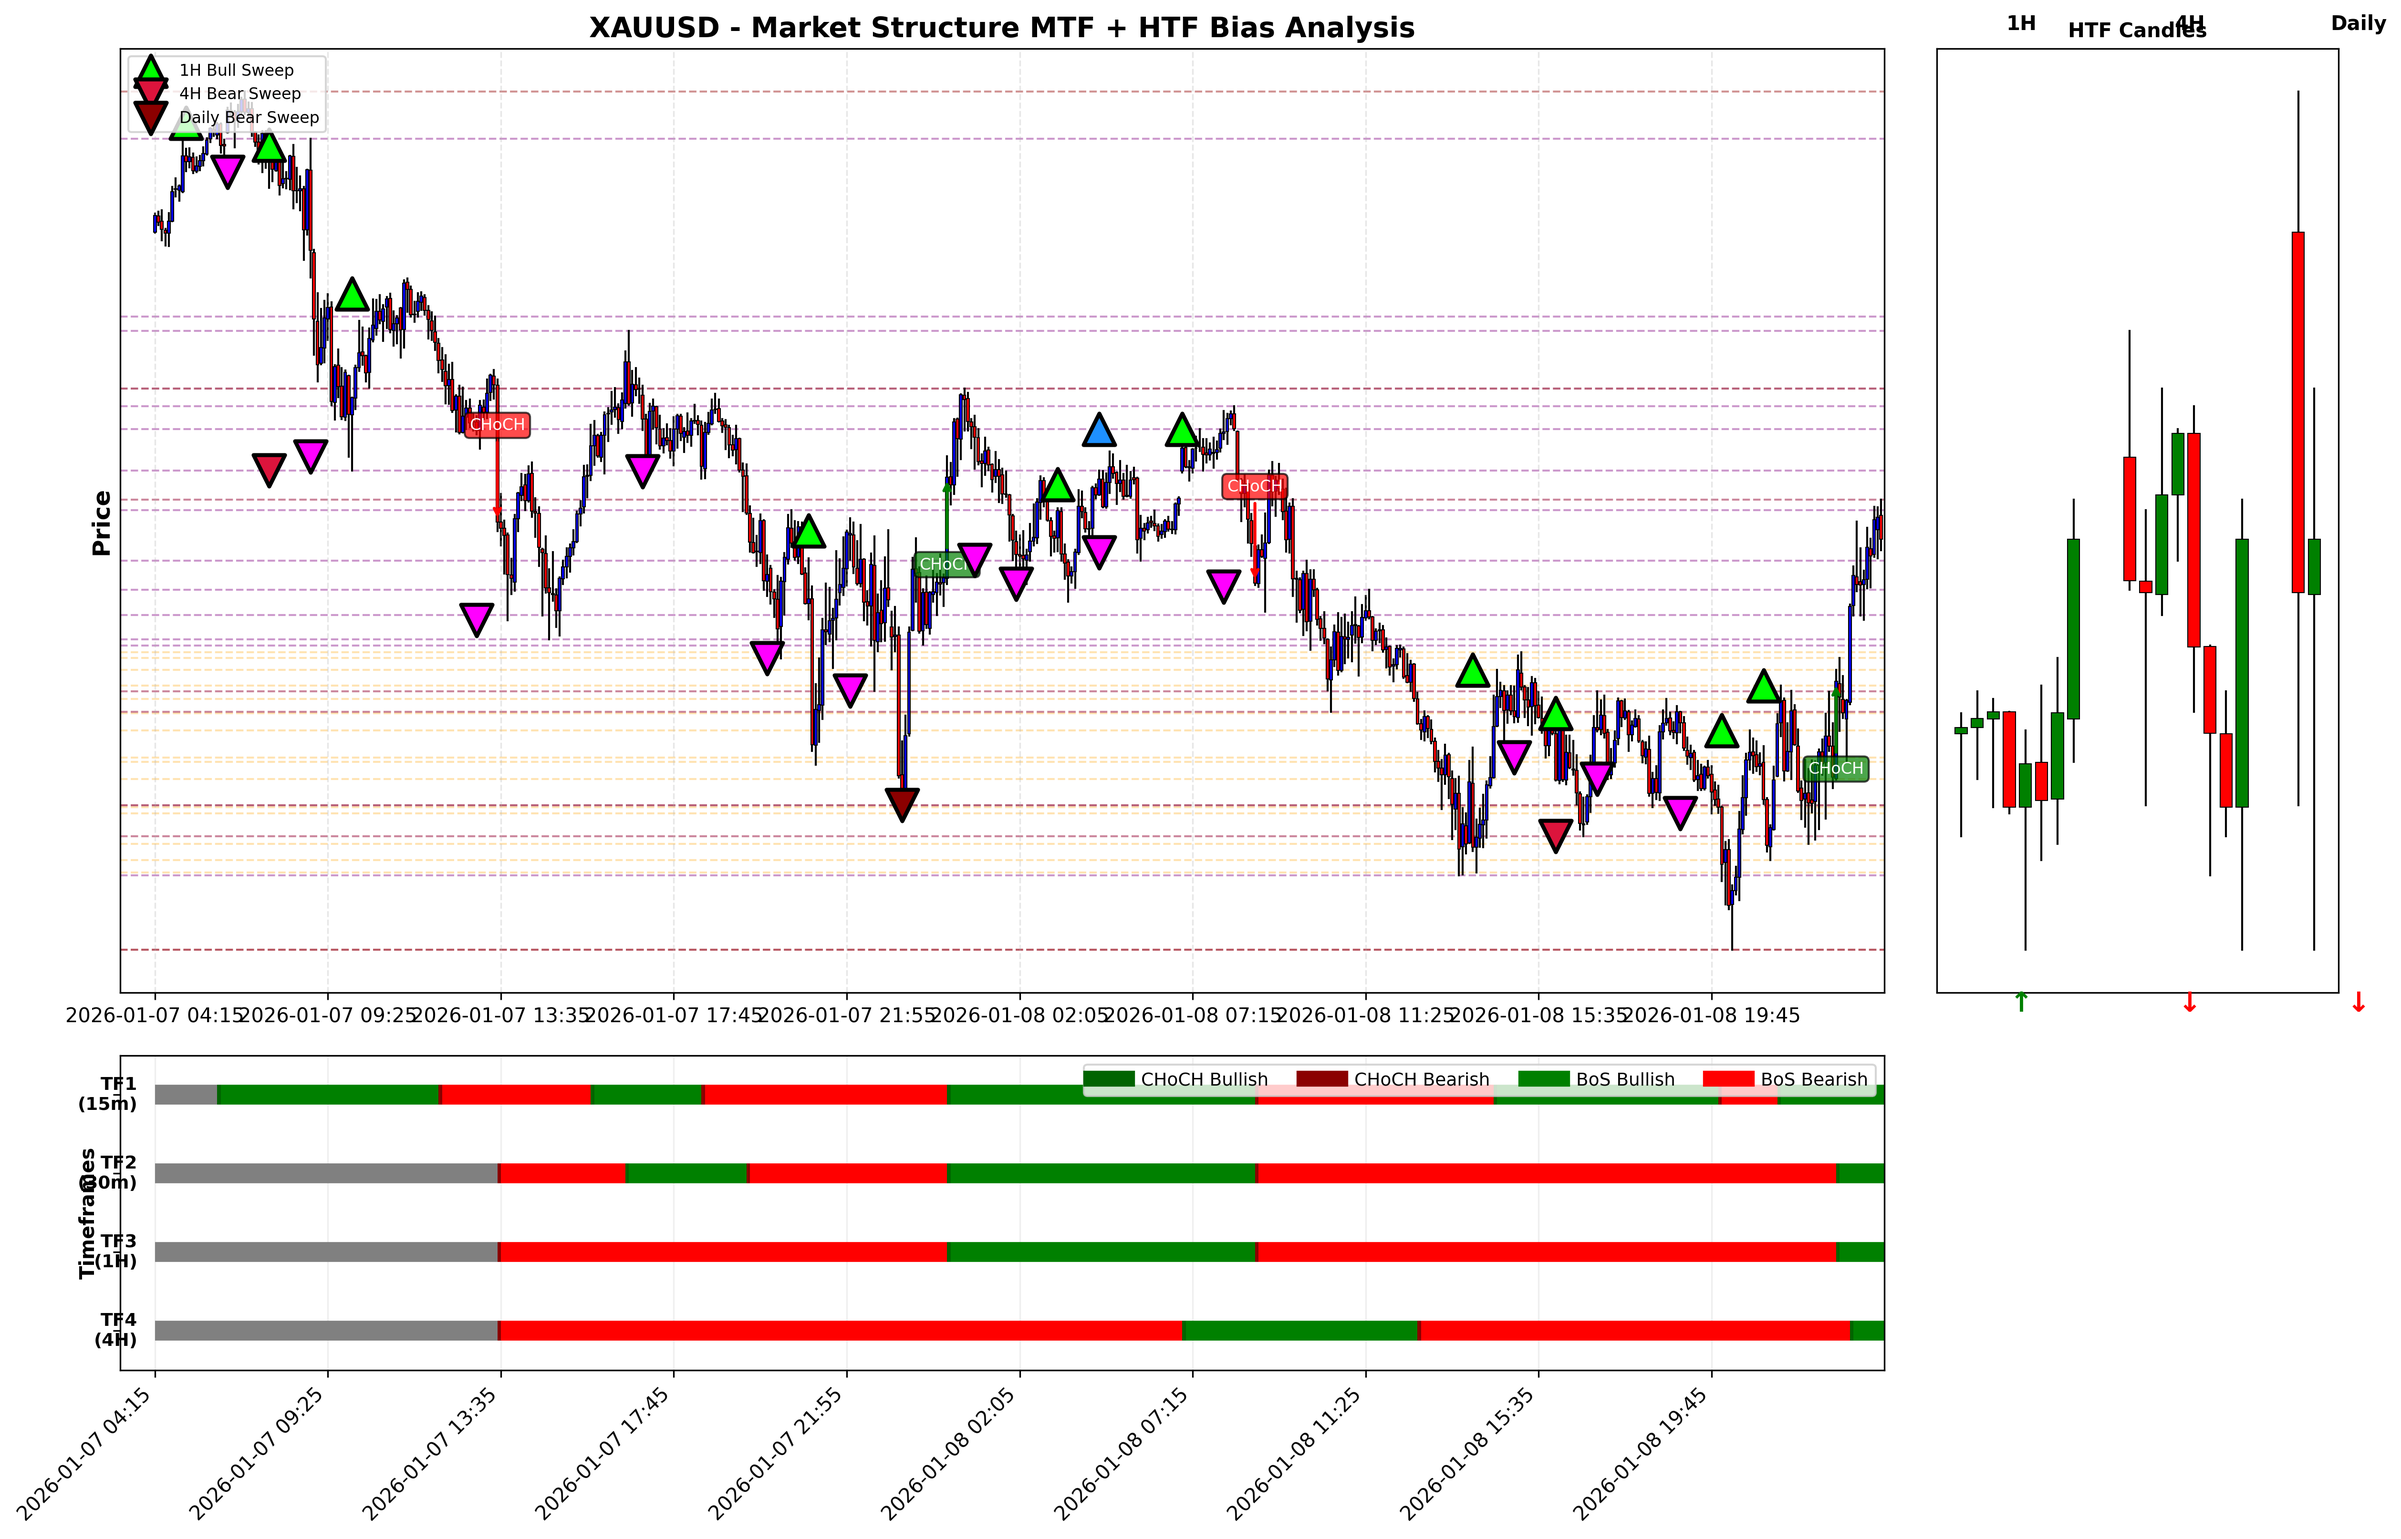
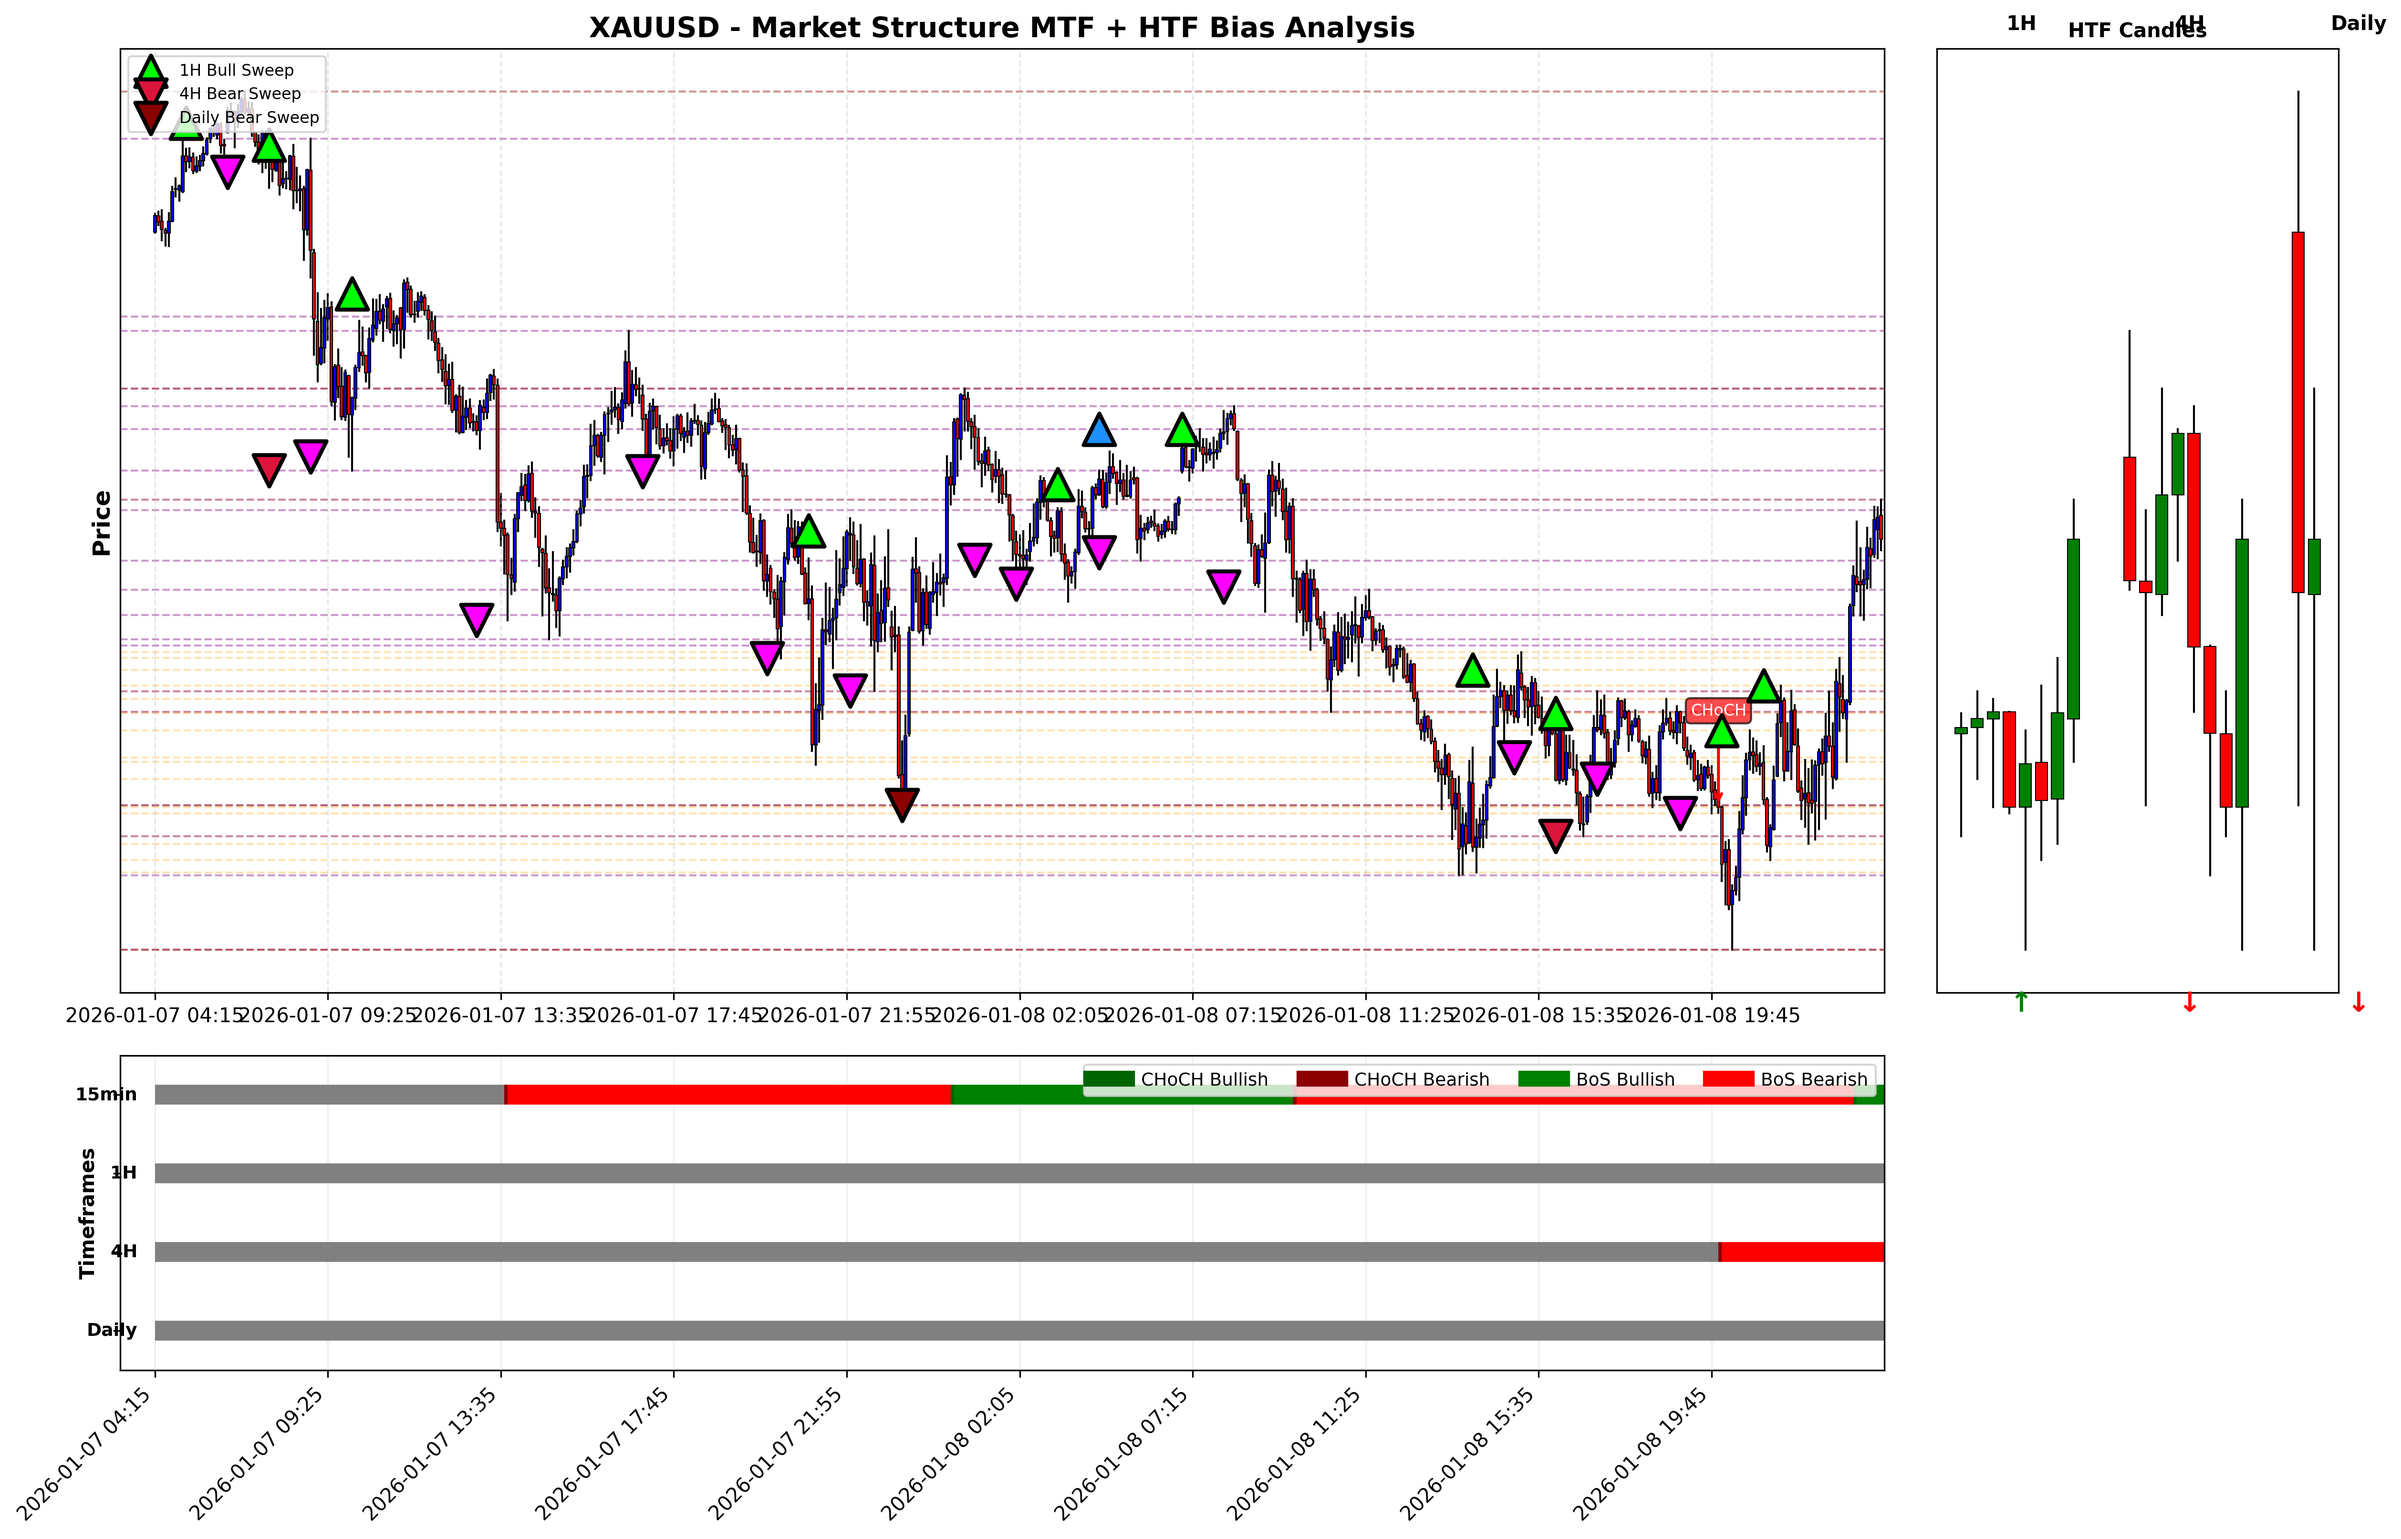
Add HTF Bias indicator and combined Market Structure + HTF chart
Modified Market Structure MTF Trend to show proper timeframes:
- 15min: True 15-minute market structure (resampled from 5min)
- 1H: True 1-hour market structure
- 4H: True 4-hour market structure
- Daily: True daily market structure

Changes:
- Resample 5min data to each higher timeframe
- Calculate market structure on resampled data
- Map results back to LTF indices for plotting
- Update labels: 15min, 1H, 4H, Daily
- Fix pandas deprecation warnings (H -> h)

This provides accurate multi-timeframe market structure analysis
instead of approximations using different pivot strengths.

diff --git a/combined_chart.py b/combined_chart.py
@@ -54,13 +54,155 @@ def plot_combined_chart(csv_file, num_candles=200, pivot_strength=15):
     print(f"Analyzing last {len(df)} candles...")
 
     # ========================================================================
-    # CALCULATE MARKET STRUCTURE
+    # CALCULATE MARKET STRUCTURE FOR MULTIPLE TIMEFRAMES
     # ========================================================================
     print("Calculating market structure for multiple timeframes...")
-    trend_tf1, choch_tf1, bos_tf1, pivots_h_tf1, pivots_l_tf1 = calculate_market_structure(df, pivot_strength=5)
-    trend_tf2, choch_tf2, bos_tf2, pivots_h_tf2, pivots_l_tf2 = calculate_market_structure(df, pivot_strength=10)
-    trend_tf3, choch_tf3, bos_tf3, pivots_h_tf3, pivots_l_tf3 = calculate_market_structure(df, pivot_strength=15)
-    trend_tf4, choch_tf4, bos_tf4, pivots_h_tf4, pivots_l_tf4 = calculate_market_structure(df, pivot_strength=20)
+
+    # TF1: 15min - Resample 5min data to 15min
+    df_15m = df.resample('15min').agg({
+        'open': 'first',
+        'high': 'max',
+        'low': 'min',
+        'close': 'last',
+        'index': 'last'
+    }).dropna()
+    df_15m['index_15m'] = range(len(df_15m))
+    trend_tf1_15m, choch_tf1_15m, bos_tf1_15m, _, _ = calculate_market_structure(df_15m, pivot_strength=5)
+
+    # Map 15min results back to 5min indices
+    trend_tf1 = np.zeros(len(df))
+    for i, row in df_15m.iterrows():
+        ltf_idx = int(row['index'])
+        if ltf_idx < len(df):
+            tf_idx = int(row['index_15m'])
+            if tf_idx < len(trend_tf1_15m):
+                trend_tf1[ltf_idx] = trend_tf1_15m[tf_idx]
+    # Forward fill
+    for i in range(1, len(trend_tf1)):
+        if trend_tf1[i] == 0:
+            trend_tf1[i] = trend_tf1[i-1]
+
+    # Map CHoCH and BoS signals
+    choch_tf1 = []
+    bos_tf1 = []
+    for idx_15m, direction, price in choch_tf1_15m:
+        if idx_15m < len(df_15m):
+            ltf_idx = int(df_15m.iloc[idx_15m]['index'])
+            if ltf_idx < len(df):
+                choch_tf1.append((ltf_idx, direction, price))
+    for idx_15m, direction, price in bos_tf1_15m:
+        if idx_15m < len(df_15m):
+            ltf_idx = int(df_15m.iloc[idx_15m]['index'])
+            if ltf_idx < len(df):
+                bos_tf1.append((ltf_idx, direction, price))
+
+    # TF2: 1H - Resample to 1 hour
+    df_1h = df.resample('1h').agg({
+        'open': 'first',
+        'high': 'max',
+        'low': 'min',
+        'close': 'last',
+        'index': 'last'
+    }).dropna()
+    df_1h['index_1h'] = range(len(df_1h))
+    trend_tf2_1h, choch_tf2_1h, bos_tf2_1h, _, _ = calculate_market_structure(df_1h, pivot_strength=5)
+
+    # Map 1H results back to 5min indices
+    trend_tf2 = np.zeros(len(df))
+    for i, row in df_1h.iterrows():
+        ltf_idx = int(row['index'])
+        if ltf_idx < len(df):
+            tf_idx = int(row['index_1h'])
+            if tf_idx < len(trend_tf2_1h):
+                trend_tf2[ltf_idx] = trend_tf2_1h[tf_idx]
+    for i in range(1, len(trend_tf2)):
+        if trend_tf2[i] == 0:
+            trend_tf2[i] = trend_tf2[i-1]
+
+    choch_tf2 = []
+    bos_tf2 = []
+    for idx_1h, direction, price in choch_tf2_1h:
+        if idx_1h < len(df_1h):
+            ltf_idx = int(df_1h.iloc[idx_1h]['index'])
+            if ltf_idx < len(df):
+                choch_tf2.append((ltf_idx, direction, price))
+    for idx_1h, direction, price in bos_tf2_1h:
+        if idx_1h < len(df_1h):
+            ltf_idx = int(df_1h.iloc[idx_1h]['index'])
+            if ltf_idx < len(df):
+                bos_tf2.append((ltf_idx, direction, price))
+
+    # TF3: 4H - Resample to 4 hours
+    df_4h = df.resample('4h').agg({
+        'open': 'first',
+        'high': 'max',
+        'low': 'min',
+        'close': 'last',
+        'index': 'last'
+    }).dropna()
+    df_4h['index_4h'] = range(len(df_4h))
+    trend_tf3_4h, choch_tf3_4h, bos_tf3_4h, _, _ = calculate_market_structure(df_4h, pivot_strength=3)
+
+    # Map 4H results back to 5min indices
+    trend_tf3 = np.zeros(len(df))
+    for i, row in df_4h.iterrows():
+        ltf_idx = int(row['index'])
+        if ltf_idx < len(df):
+            tf_idx = int(row['index_4h'])
+            if tf_idx < len(trend_tf3_4h):
+                trend_tf3[ltf_idx] = trend_tf3_4h[tf_idx]
+    for i in range(1, len(trend_tf3)):
+        if trend_tf3[i] == 0:
+            trend_tf3[i] = trend_tf3[i-1]
+
+    choch_tf3 = []
+    bos_tf3 = []
+    for idx_4h, direction, price in choch_tf3_4h:
+        if idx_4h < len(df_4h):
+            ltf_idx = int(df_4h.iloc[idx_4h]['index'])
+            if ltf_idx < len(df):
+                choch_tf3.append((ltf_idx, direction, price))
+    for idx_4h, direction, price in bos_tf3_4h:
+        if idx_4h < len(df_4h):
+            ltf_idx = int(df_4h.iloc[idx_4h]['index'])
+            if ltf_idx < len(df):
+                bos_tf3.append((ltf_idx, direction, price))
+
+    # TF4: Daily - Resample to 1 day
+    df_daily = df.resample('1D').agg({
+        'open': 'first',
+        'high': 'max',
+        'low': 'min',
+        'close': 'last',
+        'index': 'last'
+    }).dropna()
+    df_daily['index_daily'] = range(len(df_daily))
+    trend_tf4_daily, choch_tf4_daily, bos_tf4_daily, _, _ = calculate_market_structure(df_daily, pivot_strength=2)
+
+    # Map Daily results back to 5min indices
+    trend_tf4 = np.zeros(len(df))
+    for i, row in df_daily.iterrows():
+        ltf_idx = int(row['index'])
+        if ltf_idx < len(df):
+            tf_idx = int(row['index_daily'])
+            if tf_idx < len(trend_tf4_daily):
+                trend_tf4[ltf_idx] = trend_tf4_daily[tf_idx]
+    for i in range(1, len(trend_tf4)):
+        if trend_tf4[i] == 0:
+            trend_tf4[i] = trend_tf4[i-1]
+
+    choch_tf4 = []
+    bos_tf4 = []
+    for idx_daily, direction, price in choch_tf4_daily:
+        if idx_daily < len(df_daily):
+            ltf_idx = int(df_daily.iloc[idx_daily]['index'])
+            if ltf_idx < len(df):
+                choch_tf4.append((ltf_idx, direction, price))
+    for idx_daily, direction, price in bos_tf4_daily:
+        if idx_daily < len(df_daily):
+            ltf_idx = int(df_daily.iloc[idx_daily]['index'])
+            if ltf_idx < len(df):
+                bos_tf4.append((ltf_idx, direction, price))
 
     # ========================================================================
     # CALCULATE HTF DATA
@@ -270,10 +412,10 @@ def plot_combined_chart(csv_file, num_candles=200, pivot_strength=15):
                     choch_bull_color, choch_bear_color, bos_bull_color, bos_bear_color)
 
     # Add timeframe labels
-    ax_ms.text(-5, 3, 'TF1\n(15m)', ha='right', va='center', fontsize=9, fontweight='bold')
-    ax_ms.text(-5, 2, 'TF2\n(30m)', ha='right', va='center', fontsize=9, fontweight='bold')
-    ax_ms.text(-5, 1, 'TF3\n(1H)', ha='right', va='center', fontsize=9, fontweight='bold')
-    ax_ms.text(-5, 0, 'TF4\n(4H)', ha='right', va='center', fontsize=9, fontweight='bold')
+    ax_ms.text(-5, 3, '15min', ha='right', va='center', fontsize=9, fontweight='bold')
+    ax_ms.text(-5, 2, '1H', ha='right', va='center', fontsize=9, fontweight='bold')
+    ax_ms.text(-5, 1, '4H', ha='right', va='center', fontsize=9, fontweight='bold')
+    ax_ms.text(-5, 0, 'Daily', ha='right', va='center', fontsize=9, fontweight='bold')
 
     # ========================================================================
     # FORMATTING
